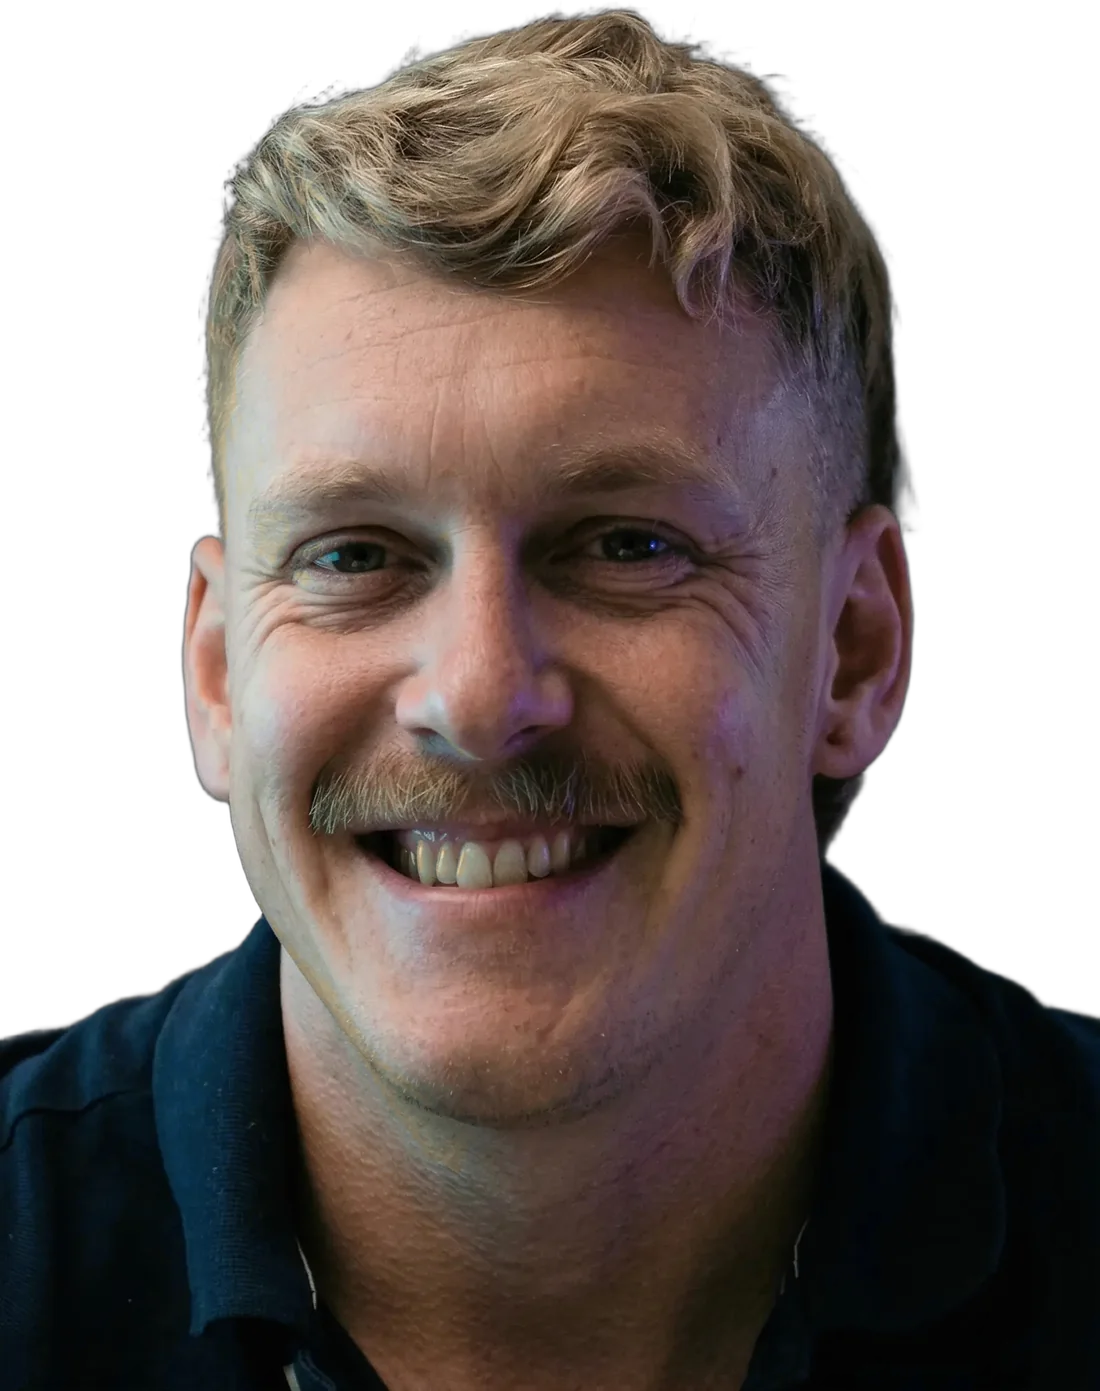
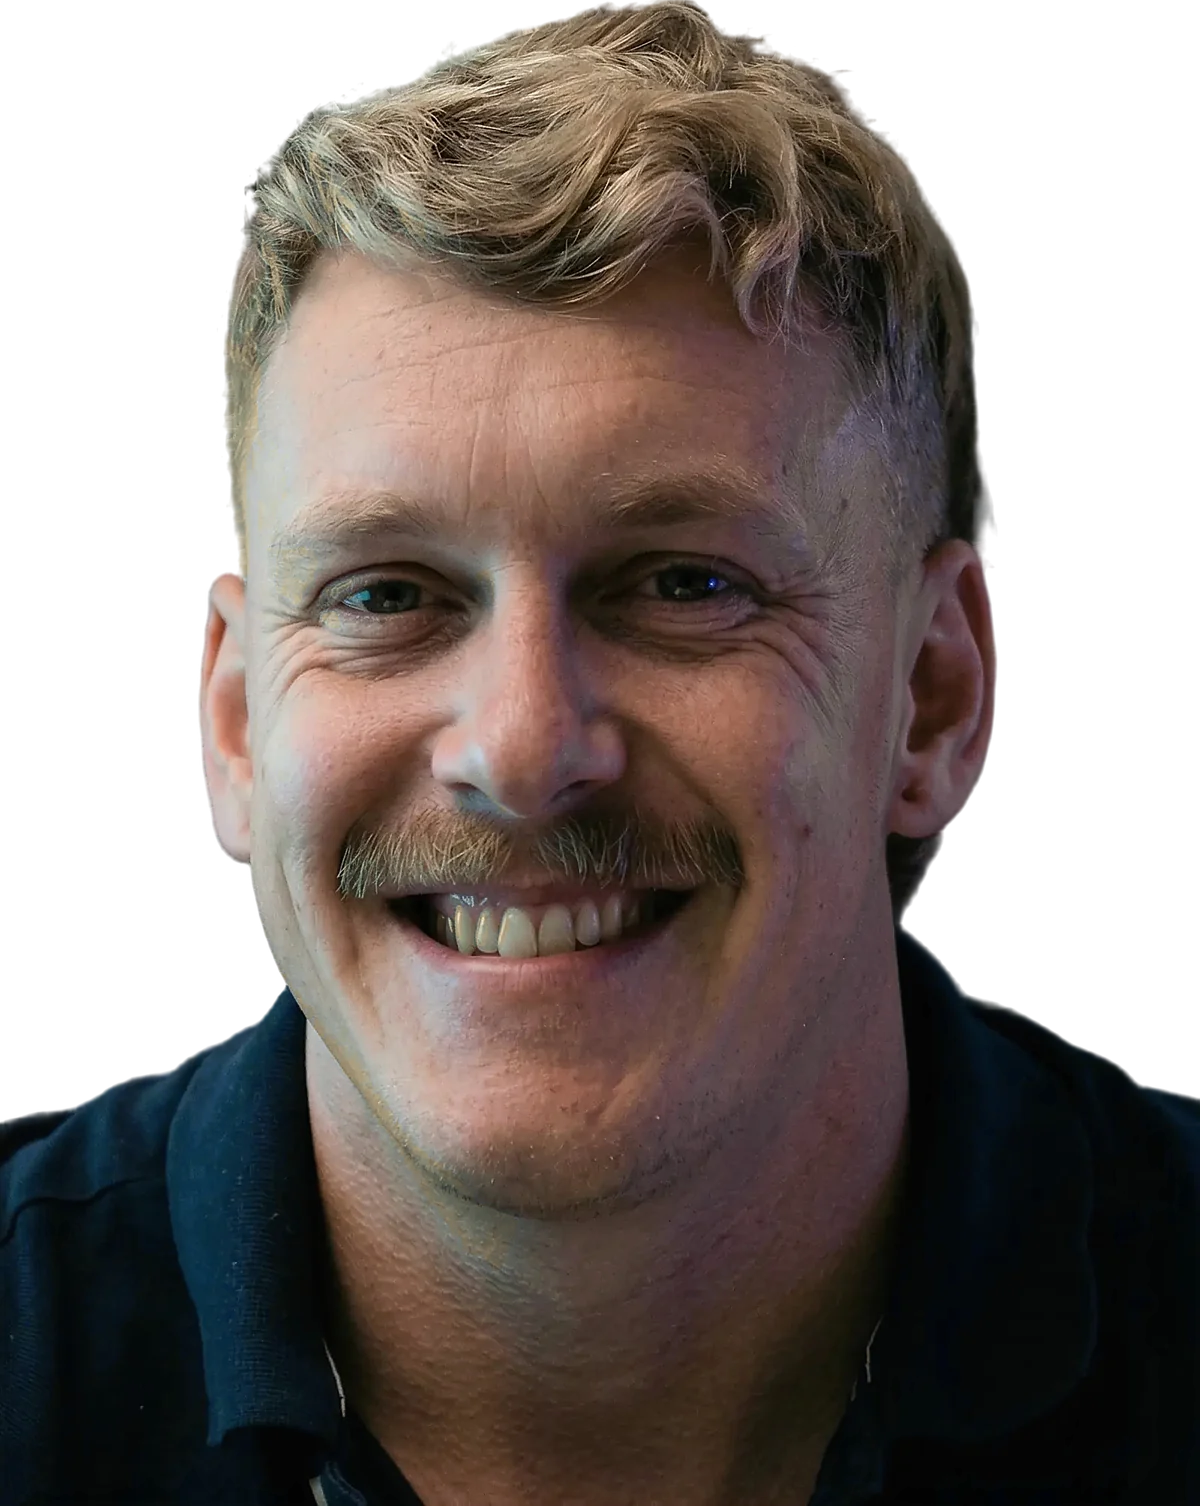
fix: front pitch, moment 2 the reviewer's way: the first screen is the pane, it crops in round the face and then shrinks so the dark shows round it (no grey in between); the pane dims; the signature is one even line along its centre lines, drawn with the scroll while the pane shrinks; names in two v

diff --git a/pitch/front.src.html b/pitch/front.src.html
@@ -9,27 +9,28 @@
 __EMBED__
 __TOKENS__
 /* The front page, rebuilt on landonorris.com's techniques (Tom picked it 11-20; Direction page in
-   ~/.claude/plans/design-workflow.md). Moments 1 and 2 only, for Tom to judge first:
-   1 name, role and the cut-out photo on cream; 2 the photo shrinks into a pane, the ground eases to warm dark,
-   names run behind it and the signature draws itself. One fixed ground layer, every section see-through.
+   ~/.claude/plans/design-workflow.md). Moments 1 and 2 only, for Tom to judge first.
+   1: name, role and the cut-out photo on cream; the whole first screen is the pane.
+   2: like his, the pane first crops in round the face (the face keeps its size), then shrinks; the warm dark ground
+   shows round it, so there is never an in-between colour. Names run behind it, the photo dims to black and white,
+   and the signature writes itself along its centre lines while you scroll.
    Pitch: sizes inline until Tom says it feels right, then they go to tokens.css with his OK. */
 :root {
   --f-big: "Clash Display", "Arial Narrow", sans-serif;
   --f-text: "Inter", system-ui, sans-serif;
-  --pane-bg: #b9b4aa;
+  /* the photo on the first screen: its height and top, as parts of the screen height */
+  --hp: 100svh;
+  --pt: 20svh;
 }
 * { box-sizing: border-box; }
-html { background: var(--look-cream); }
+html { background: var(--look-dark-soft); }
 html.lenis, html.lenis body { height: auto; }
 .lenis.lenis-smooth { scroll-behavior: auto !important; }
-body { margin: 0; color: var(--look-dark); font: 400 16px/1.5 var(--f-text); -webkit-font-smoothing: antialiased; }
+body { margin: 0; color: var(--look-cream); font: 400 16px/1.5 var(--f-text); -webkit-font-smoothing: antialiased; }
 a { color: inherit; }
 a:focus-visible { outline: 2px solid var(--look-spray); outline-offset: 4px; }
 
-/* the one ground: cream underneath, warm dark fades in over it */
-.ground { position: fixed; inset: 0; z-index: -1; background: var(--look-dark-soft); opacity: 0; pointer-events: none; }
-
-/* header: one ink that flips with the ground */
+/* header: one ink that flips with whatever is under it */
 .bar { position: fixed; inset: 0 0 auto; z-index: 20; display: flex; justify-content: space-between; align-items: flex-start; gap: 16px;
   padding: max(20px, env(safe-area-inset-top)) max(var(--gutter), env(safe-area-inset-right)) 0 max(var(--gutter), env(safe-area-inset-left));
   color: var(--look-cream); mix-blend-mode: difference; pointer-events: none; }
@@ -40,53 +41,58 @@ a:focus-visible { outline: 2px solid var(--look-spray); outline-offset: 4px; }
 .links a { text-decoration: none; min-height: 44px; display: inline-flex; align-items: flex-start; }
 .links a:hover { text-decoration: underline; text-underline-offset: 4px; }
 
-/* moments 1 + 2: one pinned stage */
-.hero { position: relative; height: 340svh; }
+/* moments 1 + 2: one pinned stage; the ground is the stage's own dark, the first screen sits on it as the pane */
+.hero { position: relative; height: 290svh; }
 .stage { position: sticky; top: 0; height: 100svh; overflow: hidden; }
-.name { position: absolute; left: 0; right: 0; top: 8svh; margin: 0; text-align: center; font: 700 min(10.8vw, 19svh)/.86 var(--f-big);
+.pane, .inner { position: absolute; inset: 0; will-change: transform; }
+.pane { overflow: hidden; }
+.inner { background: var(--look-cream); }
+.name { position: absolute; left: 0; right: 0; top: 7svh; margin: 0; text-align: center; font: 700 min(10.5vw, 17svh)/.86 var(--f-big);
   letter-spacing: -.02em; text-transform: uppercase; color: var(--look-dark); white-space: nowrap; }
 .name .ln { display: inline-block; overflow: hidden; padding: .04em .12em 0; }
 .name .ln span { display: block; }
+.photo { position: absolute; top: var(--pt); left: 50%; height: var(--hp); width: auto; translate: -50% 0; }
+.photo.bw { opacity: 0; }
+.dim { position: absolute; inset: 0; background: var(--look-dark-soft); opacity: 0; }
 .role { position: absolute; left: max(var(--gutter), env(safe-area-inset-left)); bottom: max(28px, env(safe-area-inset-bottom)); margin: 0;
-  font-size: 14px; font-weight: 500; max-width: 26ch; color: var(--look-dark); }
+  font-size: 14px; font-weight: 500; max-width: 24ch; color: var(--look-dark); }
 .hint { position: absolute; right: max(var(--gutter), env(safe-area-inset-right)); bottom: max(28px, env(safe-area-inset-bottom)); margin: 0;
   font-size: 13px; color: var(--look-dark-quiet); }
-.rows { position: absolute; left: 0; right: 0; top: 50%; transform: translateY(-50%); opacity: 0; pointer-events: none; }
-.row { font: 700 min(9.5vw, 15svh)/.95 var(--f-big); text-transform: uppercase; letter-spacing: -.01em; white-space: nowrap; color: var(--look-cream); will-change: transform; }
-.pane { position: absolute; left: 50%; top: 50%; height: 50svh; aspect-ratio: 1100 / 1391; translate: -50% -50%; overflow: hidden; will-change: transform; }
-.pane .pbg { position: absolute; inset: 0; background: var(--pane-bg); opacity: 0; }
-.pane img { position: absolute; inset: 0; width: 100%; height: 100%; object-fit: cover; object-position: 50% 0; }
-.pane .bw { opacity: 0; }
-.sig { position: absolute; left: 50%; top: 50%; width: min(64vw, 120svh); translate: -50% -42%; overflow: visible; pointer-events: none; }
-.sig .shape { fill: var(--look-spray); }
-.sig .pen path { fill: none; stroke: #fff; stroke-linecap: round; stroke-linejoin: round; }
+/* the names behind the pane: two voices, like his mixed rows */
+.rows { position: absolute; left: 0; right: 0; top: 50%; translate: 0 -50%; opacity: 0; pointer-events: none; display: grid; gap: .1em; }
+.row { white-space: nowrap; text-transform: uppercase; will-change: transform; }
+.row.a { font: 400 min(6.4vw, 11svh)/1 var(--f-text); letter-spacing: -.03em; color: var(--look-quiet); }
+.row.b { font: 700 min(7.6vw, 13svh)/.92 var(--f-big); letter-spacing: -.015em; color: var(--look-cream); opacity: .9; }
+.sig { position: absolute; left: 50%; top: 50%; width: min(56vw, 96svh); translate: -50% -46%; overflow: visible; pointer-events: none; }
+.sig path { fill: none; stroke: var(--look-spray); stroke-linecap: round; stroke-linejoin: round; }
 
 /* after the pin: moment 3 comes next */
-.after { min-height: 90svh; display: grid; place-content: center; gap: 24px; padding: 15svh max(var(--gutter), env(safe-area-inset-left)); text-align: center; color: var(--look-cream); }
+.after { min-height: 90svh; display: grid; place-content: center; gap: 24px; padding: 15svh max(var(--gutter), env(safe-area-inset-left)); text-align: center; }
 .after p { margin: 0 auto; font: 700 min(5.4vw, 64px)/1.02 var(--f-big); text-transform: uppercase; max-width: 17ch; text-wrap: balance; }
 .after small { font-size: 13px; color: var(--look-quiet); }
 
 @media (max-width: 640px) {
+  :root { --hp: 76svh; --pt: 30svh; }
   .name { top: 11svh; font-size: min(17.5vw, 15svh); }
-  .role { display: none; }
   .name .ln { display: block; }
-  .pane { height: 40svh; }
-  .sig { width: 124vw; translate: -50% -38%; }
-  .row { font-size: 15vw; }
+  .role, .hint { display: none; }
   .links { gap: 14px; font-size: 13px; }
-  .hint { display: none; }
+  /* phone: the pane sits higher, the names run under it where they can be read */
+  .rows { top: 71%; translate: 0 0; }
+  .row.a { font-size: 8.4vw; }
+  .row.b { font-size: 10.5vw; }
+  .sig { width: 92vw; top: 40%; translate: -50% -50%; }
   .after p { font-size: 9vw; }
 }
-/* without motion: the first screen, then the pane with the signature already written */
+/* without motion: the first screen as it is, then the signature written under it */
 @media (prefers-reduced-motion: reduce) {
   .hero { height: auto; }
   .stage { position: relative; }
-  .sig .pen path { stroke-dashoffset: 0 !important; }
+  .sig { top: auto; bottom: 4svh; translate: -50% 0; }
 }
 </style>
 </head>
 <body>
-<div class="ground" aria-hidden="true"></div>
 <header class="bar">
   <div class="who"><b>Tom Larsson</b><span>Product engineer</span></div>
   <nav class="links" aria-label="Elsewhere"><a href="https://github.com/tlxq">GitHub ↗</a><a href="https://linkedin.com/in/tlxq">LinkedIn ↗</a></nav>
@@ -94,19 +100,19 @@ a:focus-visible { outline: 2px solid var(--look-spray); outline-offset: 4px; }
 <main>
   <section class="hero" aria-label="Tom Larsson">
     <div class="stage">
-      <h1 class="name"><span class="ln"><span>Tom</span></span><span class="ln"><span>Larsson</span></span></h1>
       <div class="rows" aria-hidden="true">
-        <div class="row" data-dir="-1">epaRadar · raddavarfruberga · EDGE · ttoolbox · epaRadar · raddavarfruberga · EDGE · ttoolbox ·</div>
-        <div class="row" data-dir="1">TypeScript · React · C#/.NET · Postgres · TypeScript · React · C#/.NET · Postgres ·</div>
+        <div class="row a" data-dir="-1">epaRadar · raddavarfruberga · EDGE · ttoolbox · epaRadar · raddavarfruberga · EDGE · ttoolbox ·</div>
+        <div class="row b" data-dir="1">TypeScript · React · C#/.NET · Postgres · TypeScript · React · C#/.NET · Postgres ·</div>
       </div>
-      <div class="pane">
-        <div class="pbg"></div>
-        <img class="col" src="assets/tom_cut.webp" alt="Tom Larsson" width="1100" height="1391" fetchpriority="high">
-        <img class="bw" src="assets/tom_cut_bw.webp" alt="" width="1100" height="1391">
-      </div>
+      <div class="pane"><div class="inner">
+        <h1 class="name"><span class="ln"><span>Tom</span></span> <span class="ln"><span>Larsson</span></span></h1>
+        <img class="photo col" src="assets/tom_cut.webp" alt="Tom Larsson" width="1200" height="1506" fetchpriority="high">
+        <img class="photo bw" src="assets/tom_cut_bw.webp" alt="" width="1200" height="1506">
+        <div class="dim"></div>
+        <p class="role">Product engineer. TypeScript, React and C#/.NET, from data model to server.</p>
+        <p class="hint">Scroll</p>
+      </div></div>
       <svg class="sig" aria-hidden="true"></svg>
-      <p class="role">Product engineer. TypeScript, React and C#/.NET, from data model to server.</p>
-      <p class="hint">Scroll</p>
     </div>
   </section>
   <section class="after">
@@ -121,21 +127,22 @@ __LIBS__
   const still = matchMedia("(prefers-reduced-motion: reduce)").matches;
   const phone = () => innerWidth <= 640;
 
-  // the signature: the traced shape, shown only where the pen has passed (one mask, one centre line per stroke)
+  // the signature: one even line along each traced centre line, drawn in writing order
   const NS = "http://www.w3.org/2000/svg";
   const svg = document.querySelector(".sig");
-  const [vx, vy, vw, vh] = SIGN.viewBox;
   svg.setAttribute("viewBox", SIGN.viewBox.join(" "));
-  const mk = (tag, attrs, parent) => { const el = document.createElementNS(NS, tag); for (const k in attrs) el.setAttribute(k, attrs[k]); parent.appendChild(el); return el; };
-  const defs = mk("defs", {}, svg);
-  const mask = mk("mask", { id: "pen", maskUnits: "userSpaceOnUse", x: vx, y: vy, width: vw, height: vh }, defs);
-  const pen = mk("g", { class: "pen" }, mask);
-  const strokes = SIGN.strokes.map((s) => mk("path", { d: s.d, "stroke-width": s.w, "stroke-dasharray": `${s.len + 2} ${s.len + 2}`, "stroke-dashoffset": s.len + 2 }, pen));
-  const shape = mk("g", { mask: "url(#pen)" }, svg);
-  const inner = mk("g", { transform: SIGN.transform, class: "shape" }, shape);
-  for (const d of SIGN.shape) mk("path", { d }, inner);
+  const LINE = 26; // line width in the signature's own units: about 15 px at laptop size, like his
+  const strokes = SIGN.strokes.map((s) => {
+    const p = document.createElementNS(NS, "path");
+    p.setAttribute("d", s.d);
+    p.setAttribute("stroke-width", LINE);
+    p.setAttribute("stroke-dasharray", `${s.len + 1} ${s.len + 1}`);
+    p.setAttribute("stroke-dashoffset", still ? 0 : s.len + 1);
+    svg.appendChild(p);
+    return p;
+  });
 
-  if (still || !window.gsap) return; // the plain page: first screen, then the stage as it stands, signature written by CSS
+  if (still || !window.gsap) return; // the plain page: first screen, signature already written
 
   gsap.registerPlugin(ScrollTrigger);
   const lenis = new Lenis({ lerp: 0.1 });
@@ -143,41 +150,58 @@ __LIBS__
   gsap.ticker.add((t) => lenis.raf(t * 1000));
   gsap.ticker.lagSmoothing(0);
 
-  // the signature writes itself once, at about pen speed; scroll back above the pane and it is cleared again
-  const write = gsap.timeline({ paused: true });
-  SIGN.strokes.forEach((s, i) => {
-    write.to(strokes[i], { strokeDashoffset: 0, duration: 0.12 + s.len / 3000, ease: "power1.inOut" }, i ? "+=0.06" : 0);
-  });
-
   // moment 1 on load: the name rises out of its lines, the photo settles
   gsap.from(".name .ln span", { yPercent: 105, duration: 1.1, ease: "expo.out", stagger: 0.08, delay: 0.1 });
-  gsap.from(".pane img.col", { yPercent: 6, opacity: 0, duration: 1.2, ease: "expo.out", delay: 0.15 });
+  gsap.from(".photo.col", { y: 30, opacity: 0, duration: 1.2, ease: "expo.out", delay: 0.15 });
 
-  // moment 2: one scrubbed timeline over the pinned stage
-  const pane = document.querySelector(".pane");
+  const pane = document.querySelector(".pane"), inner = document.querySelector(".inner"), photo = document.querySelector(".photo.col");
   let tl;
   const build = () => {
     tl?.scrollTrigger?.kill(); tl?.kill();
-    gsap.set([pane, ".name", ".rows .row", ".rows", ".role", ".hint", ".ground", ".pane .pbg", ".pane .bw", ".pane .col"], { clearProps: "transform,opacity,x,y,scale" });
-    // start: the photo fills the screen from the bottom (its chest cut below the edge); end: the pane in the middle
-    const h = pane.offsetHeight, vhpx = innerHeight;
-    const s0 = (phone() ? 0.66 : 0.76) * vhpx / h;
-    const y0 = vhpx - (vhpx / 2 + (h * s0) / 2) + h * s0 * 0.04;
-    tl = gsap.timeline({ defaults: { ease: "none" }, scrollTrigger: { trigger: ".hero", start: "top top", end: "bottom bottom", scrub: true,
-      onUpdate: (st) => { if (st.progress > 0.5 && write.progress() === 0) write.play(); if (st.progress < 0.3 && write.progress() > 0) write.pause(0); } } });
-    tl.fromTo(pane, { scale: s0, y: y0 }, { scale: 1, y: 0, ease: "power2.inOut", duration: 0.45 }, 0)
-      .to(".name", { yPercent: -40, opacity: 0, ease: "power1.in", duration: 0.16 }, 0.02)
-      .to([".role", ".hint"], { opacity: 0, duration: 0.12 }, 0.02)
-      .to(".ground", { opacity: 1, ease: "power1.inOut", duration: 0.07 }, 0.15)
-      .to(".pane .pbg", { opacity: 1, duration: 0.2 }, 0.26)
-      .to(".pane .bw", { opacity: 1, duration: 0.22 }, 0.2)
-      .to(".rows", { opacity: 1, duration: 0.1 }, 0.27)
-      .fromTo(".rows .row[data-dir='-1']", { xPercent: 0 }, { xPercent: -38, duration: 0.7 }, 0.3)
-      .fromTo(".rows .row[data-dir='1']", { xPercent: -38 }, { xPercent: 0, duration: 0.7 }, 0.3)
-      .to({}, { duration: 0 }, 1);
+    const vw = innerWidth, vh = innerHeight;
+    // the middle of the pane at the end: 40% down the photo (the face is at 35%), so the shoulders stay in
+    const r = photo.getBoundingClientRect();
+    const fx = vw / 2, fy = photo.offsetTop + photo.offsetHeight * 0.4;
+    const faceH = photo.offsetHeight * 0.33;
+    // the pane at the end: a near-square in the middle (phone: wider, higher)
+    const Wf = phone() ? vw * 0.78 : Math.min(vw * 0.26, vh * 0.4);
+    const Hf = Wf * (phone() ? 0.92 : 0.9);
+    const cy = phone() ? vh * 0.4 : vh * 0.5;
+    const kEnd = (0.4 * Hf) / faceH; // the face fills about 40% of the pane's height at the end: head and shoulders, like his
+    const Wc = Wf / kEnd, Hc = Hf / kEnd; // the crop, in the first screen's own pixels
+    gsap.set([pane, inner], { transformOrigin: `${fx}px ${fy}px` });
+    const s = { crop: 0, shrink: 0 };
+    const ease = gsap.parseEase("power2.inOut");
+    const apply = () => {
+      const c = ease(s.crop), k = 1 + (kEnd - 1) * ease(s.shrink), m = ease(s.shrink);
+      const cw = vw + (Wc - vw) * c, ch = vh + (Hc - vh) * c;
+      gsap.set(pane, { x: (vw / 2 - fx) * m, y: (cy - fy) * m, scaleX: (cw / vw) * k, scaleY: (ch / vh) * k });
+      gsap.set(inner, { scaleX: vw / cw, scaleY: vh / ch });
+    };
+    apply();
+    // the signature writes along the scroll while the pane still shrinks, each stroke as long as its line
+    const total = SIGN.strokes.reduce((a, x) => a + x.len, 0);
+    tl = gsap.timeline({ defaults: { ease: "none" }, scrollTrigger: { trigger: ".hero", start: "top top", end: "bottom bottom", scrub: true } });
+    tl.to(s, { crop: 1, duration: 0.26, onUpdate: apply }, 0)
+      .to(s, { shrink: 1, duration: 0.32, onUpdate: apply }, 0.14)
+      .to([".role", ".hint"], { opacity: 0, duration: 0.06 }, 0.02)
+      .to(".name", { opacity: 0, yPercent: -30, duration: 0.12 }, 0.03)
+      .to(".photo.bw", { opacity: 1, duration: 0.16 }, 0.14)
+      .to(".dim", { opacity: 0.42, duration: 0.2 }, 0.18)
+      .to(".rows", { opacity: 1, duration: 0.1 }, 0.26)
+      .fromTo(".row[data-dir='-1']", { xPercent: 0 }, { xPercent: -46, duration: 0.74 }, 0.26)
+      .fromTo(".row[data-dir='1']", { xPercent: -46 }, { xPercent: 0, duration: 0.74 }, 0.26);
+    let at = 0.3;
+    SIGN.strokes.forEach((x, i) => {
+      const d = (0.44 * x.len) / total;
+      tl.to(strokes[i], { strokeDashoffset: 0, duration: d, ease: "power1.inOut" }, at);
+      at += d + 0.012;
+    });
+    tl.to({}, { duration: 0 }, 1);
   };
-  build();
-  let rt; addEventListener("resize", () => { clearTimeout(rt); rt = setTimeout(() => { build(); ScrollTrigger.refresh(); }, 200); });
+  const ready = () => { build(); ScrollTrigger.refresh(); };
+  photo.complete ? ready() : photo.addEventListener("load", ready, { once: true });
+  let rt; addEventListener("resize", () => { clearTimeout(rt); rt = setTimeout(ready, 200); });
 })();
 </script>
 </body>
